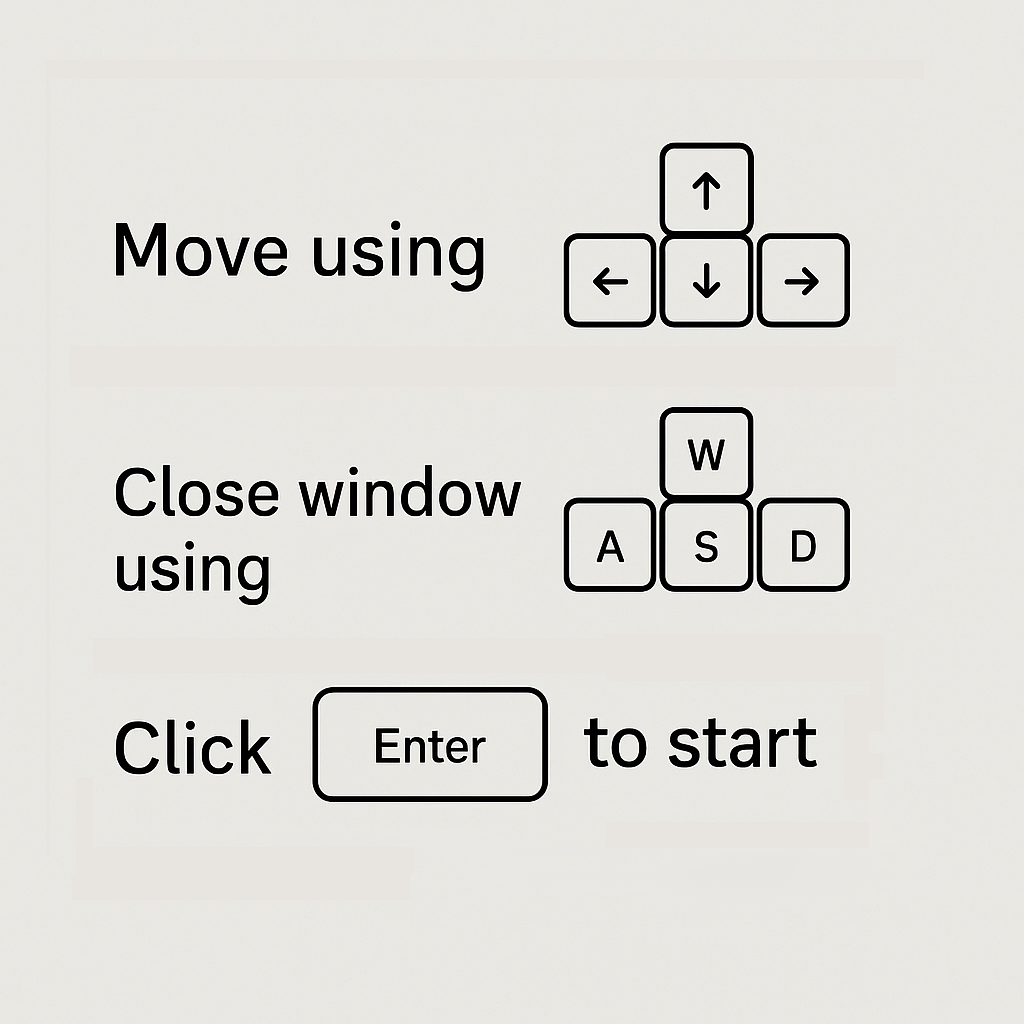
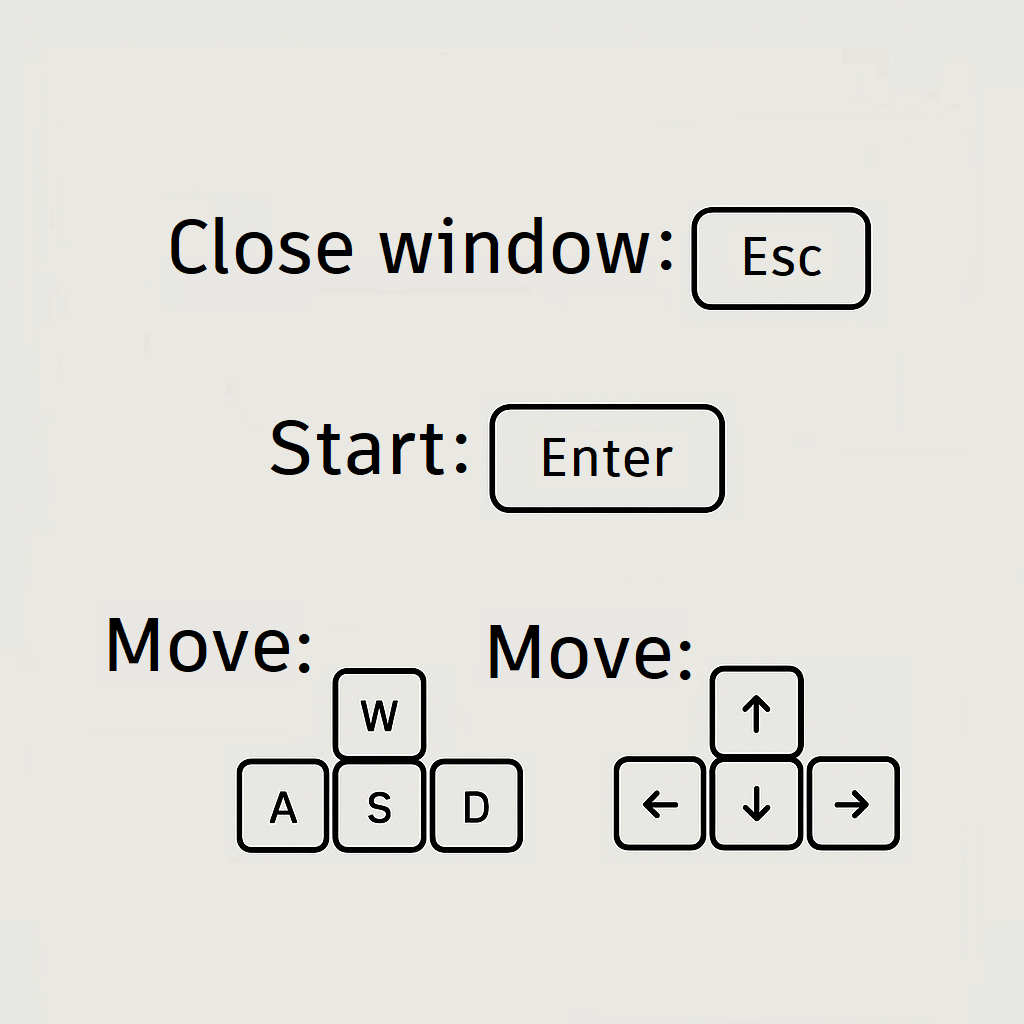
DZIAŁA!!!

Changed region(s): [[0.0938, 0.5938, 0.9062, 0.8438], [0.0938, 0.375, 0.8438, 0.6562], [0.0938, 0.125, 0.875, 0.3438]]

diff --git a/MazeView.draw.cpp b/MazeView.draw.cpp
@@ -1,3 +1,6 @@
+#include <cmath>
+#include <valarray>
+
 #include "MazeView.h"
 
 
@@ -6,13 +9,14 @@ void MazeView::drawGame(sf::RenderWindow &window) {
     window.clear(WALLCOLOR);
     drawBackground(window);
 
-    for (int row = (moveY-MARGIN)/FIELDSIZE; row < (moveY+window.getSize().y-MARGIN)/FIELDSIZE; row++) {
-        for (int col = (moveX-MARGIN)/FIELDSIZE; col < (moveX+window.getSize().x-MARGIN)/FIELDSIZE; col++) {
+    for (int row = ONROW(moveY)-1; row < ONROW(moveY+window.getSize().y)+1; row++) {
+        for (int col = ONCOL(moveX)-1; col < ONCOL(moveX+window.getSize().x)+1; col++) {
             drawField(window, row, col);
         }
     }
 
     drawEnd(window);
+    drawArrow(window);
     window.draw(player);
 }
 
@@ -24,28 +28,41 @@ void MazeView::drawBackground(sf::RenderWindow& window) {
 
 void MazeView::drawField(sf::RenderWindow &window, int row, int col) {
     if (!maze.isRightOpen(row, col)) {
-        rightWall.setPosition(FIELDSIZE*col+MARGIN-moveX, FIELDSIZE*row+MARGIN-moveY);
+        rightWall.setPosition(FIELDSTART(row,col));
         window.draw(rightWall);
     }
     if (!maze.isDownOpen(row, col)) {
-        downWall.setPosition(FIELDSIZE*col+MARGIN-moveX, FIELDSIZE*row+MARGIN-moveY);
+        downWall.setPosition(FIELDSTART(row,col));
         window.draw(downWall);
     }
     if (!maze.isLeftOpen(row, col)) {
-        leftWall.setPosition(FIELDSIZE*col+MARGIN-moveX, FIELDSIZE*row+MARGIN-moveY);
+        leftWall.setPosition(FIELDSTART(row,col));
         window.draw(leftWall);
     }
     if (!maze.isUpOpen(row, col)) {
-        upWall.setPosition(FIELDSIZE*col+MARGIN-moveX, FIELDSIZE*row+MARGIN-moveY);
+        upWall.setPosition(FIELDSTART(row,col));
         window.draw(upWall);
     }
 }
 
 void MazeView::drawEnd(sf::RenderWindow &window) {
-    int x = FIELDSIZE*maze.getEndPosition().col+MARGIN-moveX;
-    int y = FIELDSIZE*maze.getEndPosition().row+MARGIN-moveY;
-    end.setPosition(static_cast<float>(x), static_cast<float>(y));
+    end.setPosition(FIELDSTART(maze.getEndPosition().row,maze.getEndPosition().col));
     window.draw(end);
+}
+
+void MazeView::drawArrow(sf::RenderWindow &window) {
+    float angle = ATAN(end.getPosition(), player.getPosition());
+
+    if (player.getPosition().x-end.getPosition().x>0) {
+        arrow.setRotation(angle-90);
+    } else if (player.getPosition().x-end.getPosition().x<0) {
+        arrow.setRotation(angle-270);
+    } else if (player.getPosition().y-end.getPosition().y<0) {
+        arrow.setRotation(180);
+    } else {
+        arrow.setRotation(0);
+    }
+    window.draw(arrow);
 }
 
 

diff --git a/MazeView.create.cpp b/MazeView.create.cpp
@@ -3,53 +3,60 @@
 
 MazeView::MazeView(Maze& maze) : maze(maze) {
     createWall(rightWall);
-    rightWall.setOrigin(-FIELDSIZE*0.8, FIELDSIZE*0.2);
+    rightWall.setOrigin(RIGHTWALLPOSITION);
 
     createWall(downWall);
-    downWall.setOrigin(FIELDSIZE, FIELDSIZE*0.2);
+    downWall.setOrigin(DOWNWALLPOSITION);
     downWall.setRotation(-90);
 
     createWall(leftWall);
-    leftWall.setOrigin(0, FIELDSIZE*0.2);
+    leftWall.setOrigin(LEFTWALLPOSITION);
 
     createWall(upWall);
-    upWall.setOrigin(FIELDSIZE*0.2, FIELDSIZE*0.2);
+    upWall.setOrigin(UPWALLPOSITION);
     upWall.setRotation(-90);
 
     createBackground();
     createEnd();
-
     createInstructions();
-
     createPlayer();
+    createArrow();
 }
 
 void MazeView::createWall(sf::RectangleShape& wall) {
-    wall.setSize(sf::Vector2f(FIELDSIZE*0.2, FIELDSIZE*1.4));
+    wall.setSize(WALLSIZE);
     wall.setFillColor(WALLCOLOR);
 }
 
 void MazeView::createBackground() {
-    background.setSize(sf::Vector2f(FIELDSIZE*maze.getWidth(), FIELDSIZE*maze.getHeight()));
+    background.setSize(BACKGROUNDSIZE(maze));
     background.setFillColor(BACKGROUNDCOLOR);
 }
 
 void MazeView::createEnd() {
     end.setRadius(FIELDSIZE*0.2);
     end.setFillColor(ENDCOLOR);
-    end.setOrigin(-FIELDSIZE*0.3, -FIELDSIZE*0.3);
+    end.setOrigin(CIRCLEORIGIN);
 }
 
 void MazeView::createInstructions() {
-    instructTexture.loadFromFile("../instrukcje.png");
+    instructTexture.loadFromFile(TEXTUREFILE);
     instruct.setTexture(instructTexture);
-    instruct.setScale(WINWIDTH/instructTexture.getSize().x, WINHEIGHT/instructTexture.getSize().y);
+    instruct.setScale(INSTRUCTSCALE(instructTexture));
     instruct.setPosition(0,0);
 }
 
 void MazeView::createPlayer() {
     player.setRadius(FIELDSIZE*0.2);
     player.setFillColor(PLAYERCOLOR);
-    player.setOrigin(-FIELDSIZE*0.3, -FIELDSIZE*0.3);
+    player.setOrigin(CIRCLEORIGIN);
     player.setPosition(PLAYERPOSITION);
+}
+
+void MazeView::createArrow() {
+    arrow.setRadius(FIELDSIZE*0.1);
+    arrow.setPointCount(3);
+    arrow.setFillColor(ENDCOLOR);
+    arrow.setOrigin(ARROWORIGIN);
+    arrow.setPosition(ARROWPOSITION);
 }

diff --git a/Parameters.h b/Parameters.h
@@ -11,12 +11,33 @@
 #define WINWIDTH (3*FIELDSIZE+2*MARGIN)
 #define WINHEIGHT (3*FIELDSIZE+2*MARGIN)
 
+#define ONROW(x) ((x-MARGIN)/FIELDSIZE)
+#define ONCOL(x) ((x+MARGIN)/FIELDSIZE)
+
+#define TEXTUREFILE "../instrukcje.png"
+
 #define PLAYERPOSITION sf::Vector2f(FIELDSIZE+MARGIN,FIELDSIZE+MARGIN)
+#define ARROWPOSITION sf::Vector2f(FIELDSIZE*1.5+MARGIN,FIELDSIZE*1.5+MARGIN)
+#define RIGHTWALLPOSITION sf::Vector2f(-FIELDSIZE*0.8, FIELDSIZE*0.2)
+#define DOWNWALLPOSITION sf::Vector2f(FIELDSIZE, FIELDSIZE*0.2)
+#define LEFTWALLPOSITION sf::Vector2f(0, FIELDSIZE*0.2)
+#define UPWALLPOSITION sf::Vector2f(FIELDSIZE*0.2, FIELDSIZE*0.2)
+
+#define WALLSIZE sf::Vector2f(FIELDSIZE*0.2,FIELDSIZE*1.4)
+#define BACKGROUNDSIZE(m) sf::Vector2f(FIELDSIZE*m.getWidth(),FIELDSIZE*m.getHeight())
+#define INSTRUCTSCALE(texture) sf::Vector2f(WINWIDTH/texture.getSize().x, WINHEIGHT/texture.getSize().y)
+#define CIRCLEORIGIN sf::Vector2f(-FIELDSIZE*0.3, -FIELDSIZE*0.3)
+#define ARROWORIGIN sf::Vector2f(FIELDSIZE*0.1, FIELDSIZE*0.45)
+
+#define FIELDSTART(row,col) sf::Vector2f(FIELDSIZE*col+MARGIN-moveX, FIELDSIZE*row+MARGIN-moveY)
 
 #define BACKGROUNDCOLOR sf::Color(224,224,224)
 #define WALLCOLOR sf::Color(96,96,96)
 #define ENDCOLOR sf::Color(255,0,0)
 #define PLAYERCOLOR sf::Color(47,47,47)
+
+#define DEGREES(x) ((x*360)/(2*3.141592))
+#define ATAN(pos1, pos2) DEGREES(atan((pos1.y-pos2.y)/(pos1.x-pos2.x)))
 
 enum Direction {Right, Down, Left, Up};
 

diff --git a/MazeView.h b/MazeView.h
@@ -31,16 +31,20 @@ private:
     sf::Texture instructTexture;
 
     sf::CircleShape player;
+    sf::CircleShape arrow;
 
     void createWall(sf::RectangleShape &wall);
     void createBackground();
     void createEnd();
     void createInstructions();
     void createPlayer();
+    void createArrow();
 
     void drawBackground(sf::RenderWindow &window);
     void drawField(sf::RenderWindow &window, int row, int col);
     void drawEnd(sf::RenderWindow &window);
+    void drawArrow(sf::RenderWindow &window);
+
     void moveView(sf::RenderWindow &window);
 
 public:

diff --git a/MazeGame.cpp b/MazeGame.cpp
@@ -7,9 +7,7 @@ MazeGame::MazeGame(Maze& maze, MazeView& view) : maze(maze), view(view) {
 
 
 void MazeGame::play() {
-    sf::ContextSettings settings;
-    settings.antialiasingLevel = 3;
-    window.create(sf::VideoMode(WINWIDTH, WINHEIGHT), "LABIRYNT", sf::Style::None, settings);
+    window.create(sf::VideoMode(WINWIDTH, WINHEIGHT), "LABIRYNT", sf::Style::None);
     window.setPosition(sf::Vector2i(0,0));
 
     sf::Event event;

diff --git a/README.md b/README.md
@@ -7,6 +7,8 @@ Moim pomysłem na projekt jest gra - labirynt.
 - [ ] Gra polega na przejściu kulką z punktu startowego do wyjścia.
 - [ ] Automatycznie generowany labirynt z dokładnie 1 rozwiązaniem.
 - [ ] Po dotarciu do wyjścia przechodzi się do kolejnego labiryntu.
-- [ ] Labirynt najprawdopodobniej reprezentowany jako tablica z zaznaczonymi kierunkami w które można się z danego pola przesunąć lub drzewo w którem kolejne rozgałęzienia oznaczają ścieżki którymi można pójść.
-- [ ] Poruszanie się za pomocą strzałek.
-- [ ] Jak mi starczy czasu - okienko w którym widać tylko część labiryntu, przesuwające się po pulpicie przy zmianie pozycji kulki.
+- [ ] Labirynt reprezentowany jako tablica z zaznaczonymi kierunkami w które można się z danego pola przesunąć.
+- [ ] Poruszanie się za pomocą strzałek i WASD.
+- [ ] Okienko w którym widać tylko część labiryntu, przesuwające się po pulpicie przy zmianie pozycji kulki.
+
+Żeby nie było, pomysł na algorytm do generacji labiryntu wzięłam z [tej strony](https://ii.uni.wroc.pl/~wzychla/maze).
